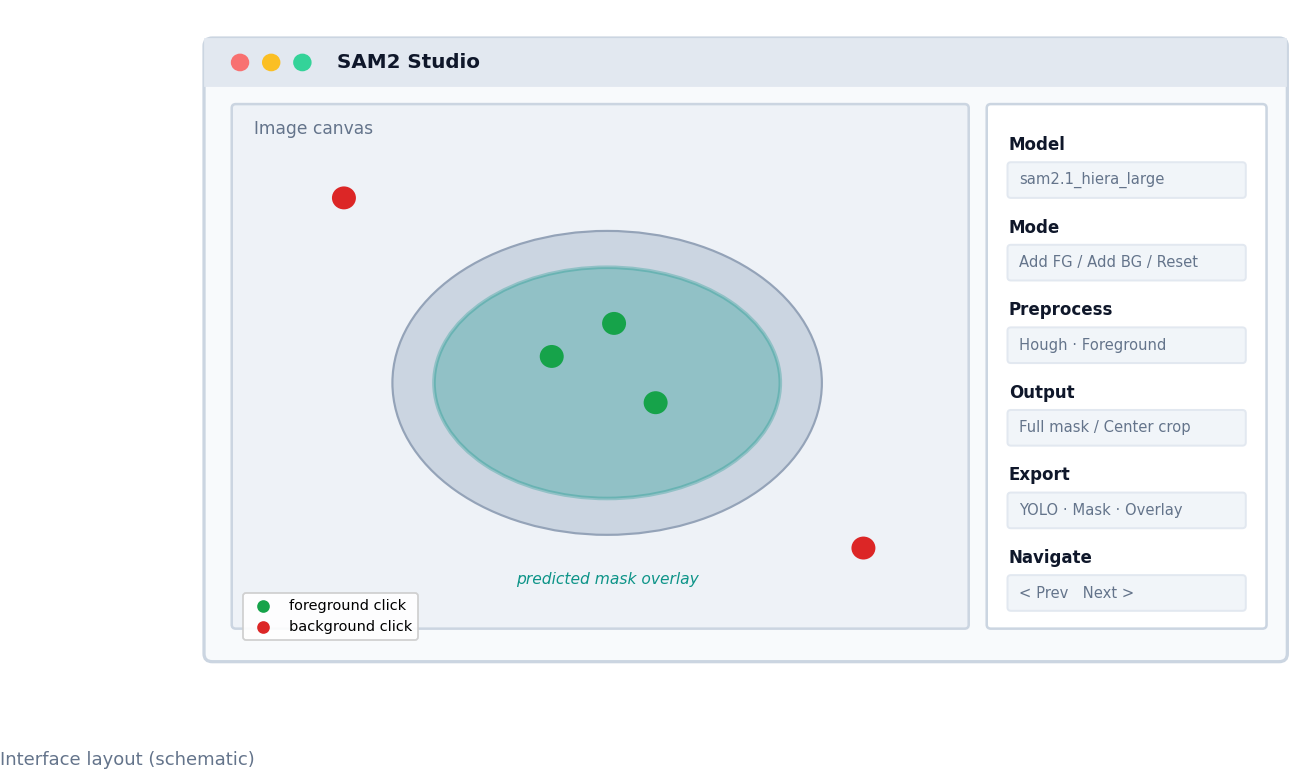
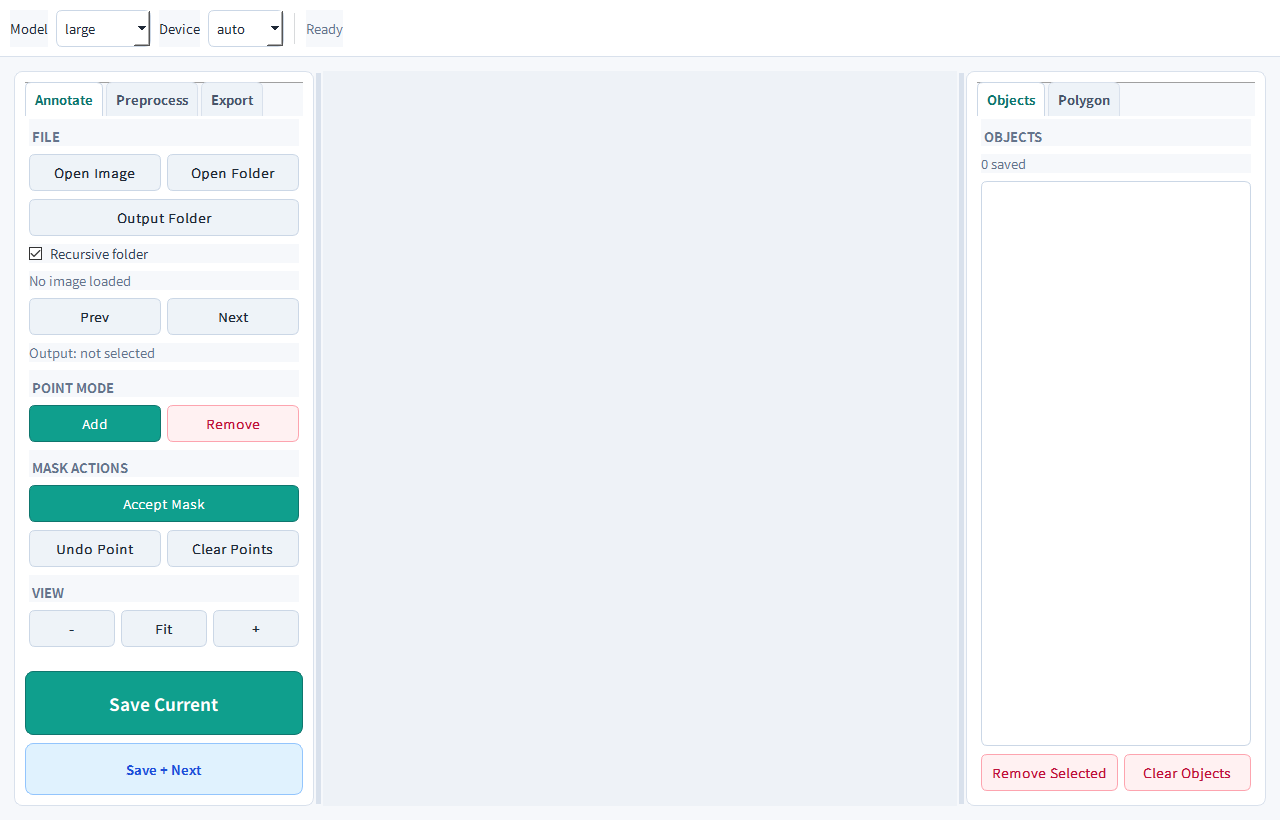
Refresh README visuals and contributor email

diff --git a/README.md b/README.md
@@ -9,6 +9,8 @@
 
 Windows desktop app for interactive image segmentation with Meta's Segment Anything Model 2. SAM2 is installed from Meta's upstream repository instead of being vendored here.
 
+Maintainer: xieyaozong1124 <[email redacted]>
+
 ![Workflow](assets/workflow.png)
 
 ## What It Does
@@ -25,7 +27,7 @@ Windows desktop app for interactive image segmentation with Meta's Segment Anyth
 
 ![Interface layout](assets/interface.png)
 
-The app centers on an image canvas with foreground/background clicks and the predicted mask overlay, plus a sidebar for model, preprocessing, and export settings.
+The app centers on an image canvas with foreground/background clicks and the predicted mask overlay. Side tabs keep annotation, preprocessing, export, object review, and YOLO polygon editing tools separated.
 
 ## Layout
 